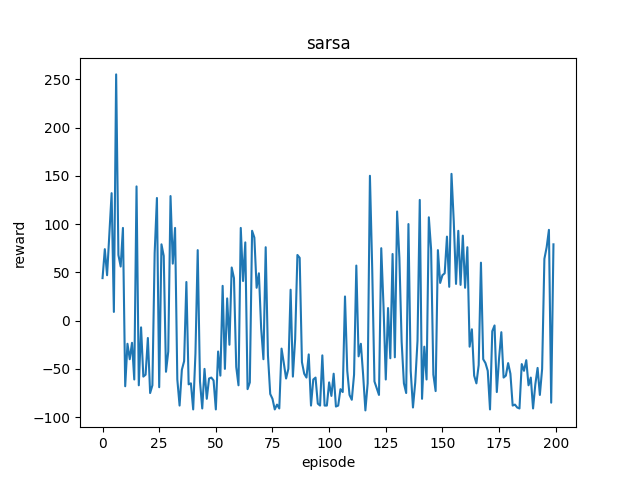
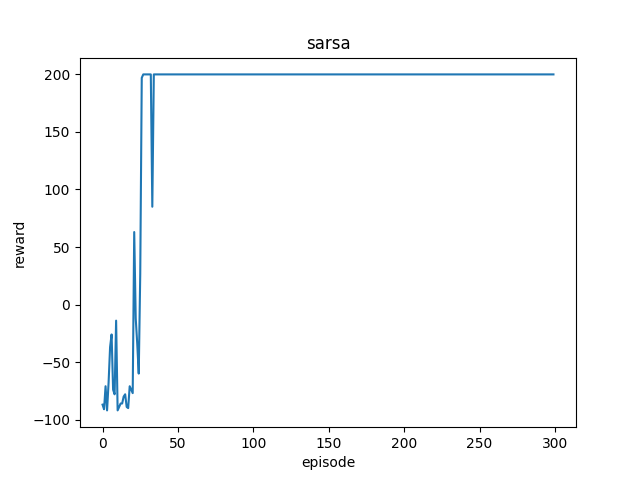
Update

diff --git a/rein_forcement.py b/rein_forcement.py
@@ -4,13 +4,14 @@ from IPython.display import Image as IImage
 import numpy as np
 import matplotlib.pyplot as plt
 from tqdm import tqdm
+from gymnasium.wrappers import RecordVideo 
 
 class reinforcement_learning:
     def __init__(self):
         self.epsilon = 0.5
-        self.alpha = 0.1
+        self.alpha = 0.5
         self.gamma = 0.99
-        self.max_episodes = 200
+        self.max_episodes = 300
         # self.max_steps = env.spec.max_episode_steps
         self.successed_episode = 0
     
@@ -33,14 +34,18 @@ class reinforcement_learning:
         env_highs = env.observation_space.high
 
         digitized = []
-        for i, observation in enumerate(observations):
-            digitized.append(np.digitize(observation, bins=self.bins(env_lows[i], env_highs[i], 4)))
-        # digitized = [
-        #     np.digitize(cart_pos, bins=self.bins(-2.4, 2.4, 4)),
-        #     np.digitize(cart_v, bins=self.bins(-3.0, 3.0, 4)),
-        #     np.digitize(pole_angle, bins=self.bins(-0.5, 0.5, 4)),
-        #     np.digitize(pole_v, bins=self.bins(-2.0, 2.0, 4))
-        #             ]
+        cart_pos = observations[0]
+        cart_v = observations[1]
+        pole_angle = observations[2]
+        pole_v = observations[3]
+        # for i, observation in enumerate(observations):
+        #     digitized.append(np.digitize(observation, bins=self.bins(env_lows[i], env_highs[i], 4)))
+        digitized = [
+            np.digitize(cart_pos, bins=self.bins(-2.4, 2.4, 4)),
+            np.digitize(cart_v, bins=self.bins(-3.0, 3.0, 4)),
+            np.digitize(pole_angle, bins=self.bins(-0.5, 0.5, 4)),
+            np.digitize(pole_v, bins=self.bins(-2.0, 2.0, 4))
+                    ]
         # 0~255に変換
         return sum([x * (4 ** i) for i, x in enumerate(digitized)])
     
@@ -77,9 +82,10 @@ class reinforcement_learning:
     def run_Q_learing(self, task):
         env = gym.make(task, render_mode="rgb_array")
         q_table = np.random.uniform(0,1,(255,env.action_space.n))
-        max_steps = env.spec.max_episode_steps
+        max_steps = 200
         imgs = []
         rewards = []
+        successed_episodes = 0
         for episode in range(self.max_episodes):
             observation = env.reset()
             episode_filename = "./q-learning/q-learning" + str(episode + 1) + ".gif"
@@ -115,6 +121,9 @@ class reinforcement_learning:
                 state = next_state
                 
                 if episode == self.max_episodes-1:
+
+                    # env = gym.wrappers.RecordVideo(env, video_folder="./", episode_trigger=True, disable_logger=True)
+
                     imgs.append(env.render())
 
                 if terminated or step == max_steps-1:
@@ -122,14 +131,15 @@ class reinforcement_learning:
                     break
         
         self.plot(rewards, "q-learning")
-        self.render(imgs, episode_filename)
+        # self.render(imgs, episode_filename)
     
     def run_SARSA(self, task):
         env = gym.make(task, render_mode="rgb_array")
         q_table = np.random.uniform(0,1,(255,env.action_space.n))
-        max_steps = env.spec.max_episode_steps
+        max_steps = 200
         imgs = []
         rewards = []
+        successed_episodes = 0
         for episode in range(self.max_episodes):
             observation = env.reset()
 
